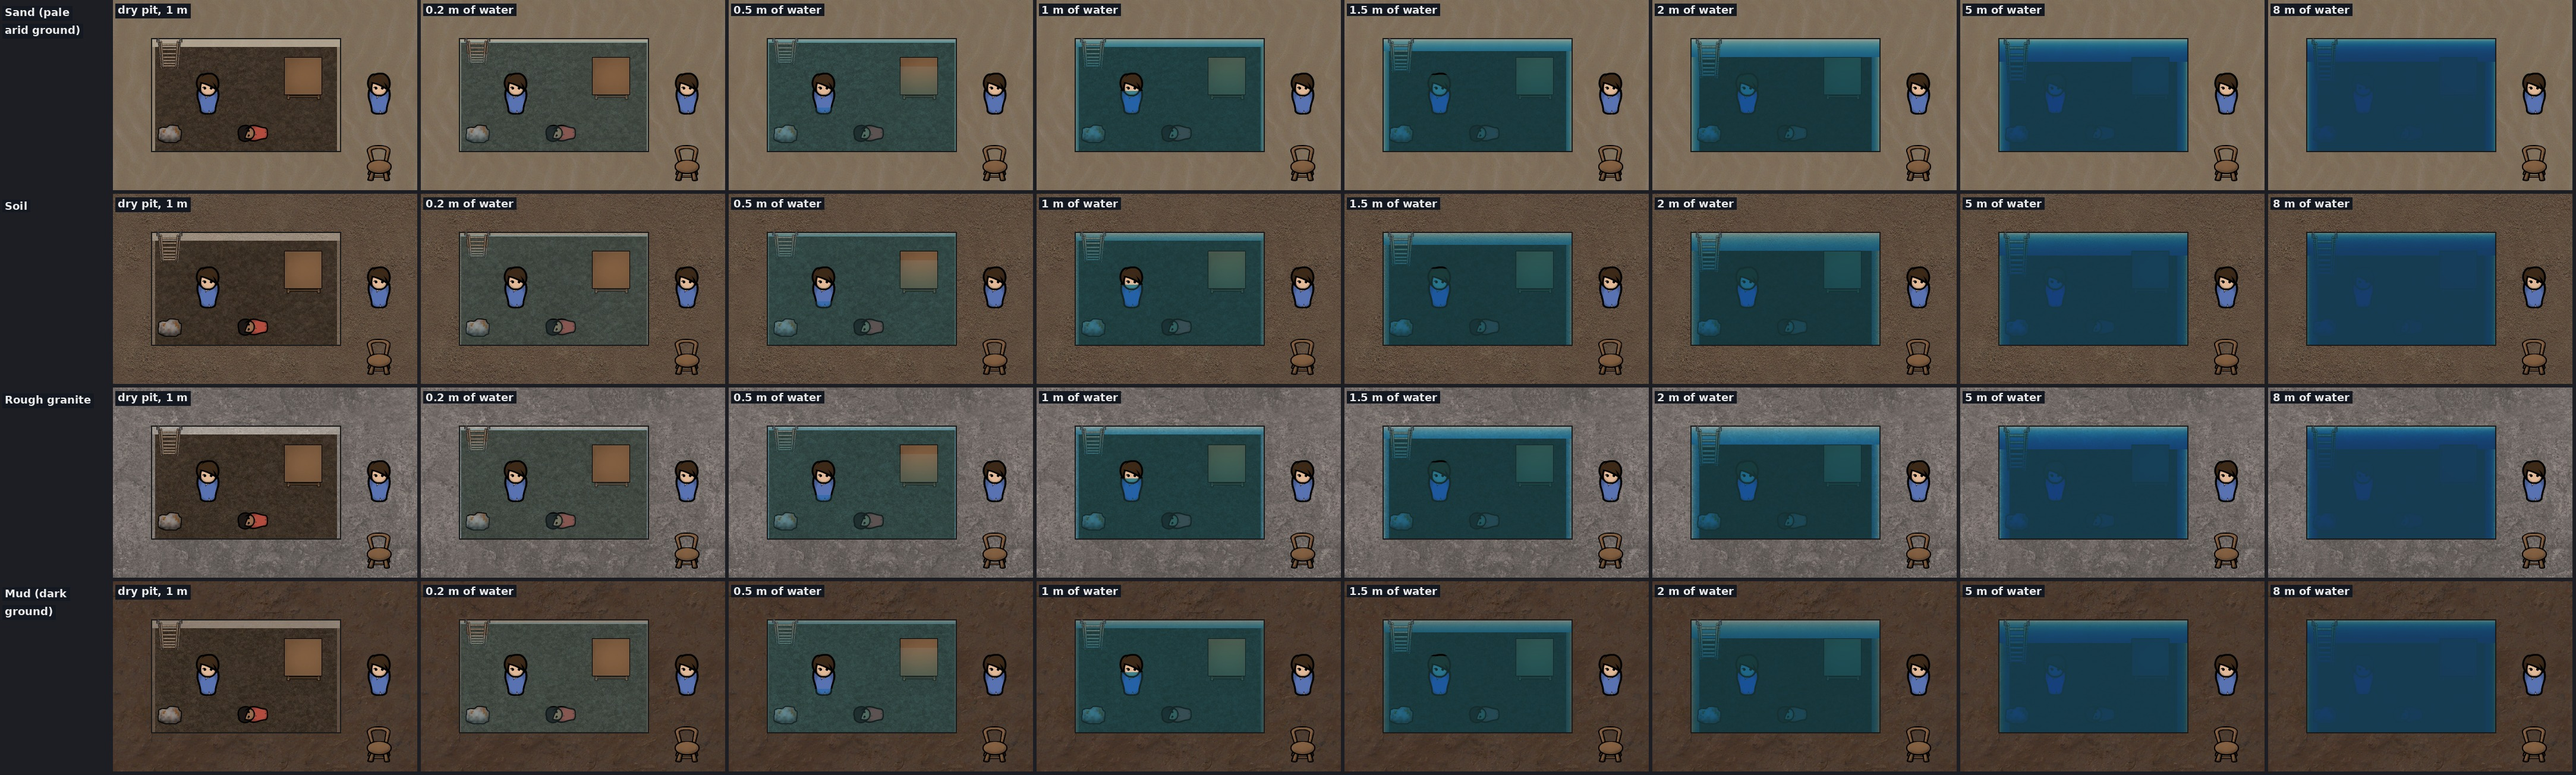
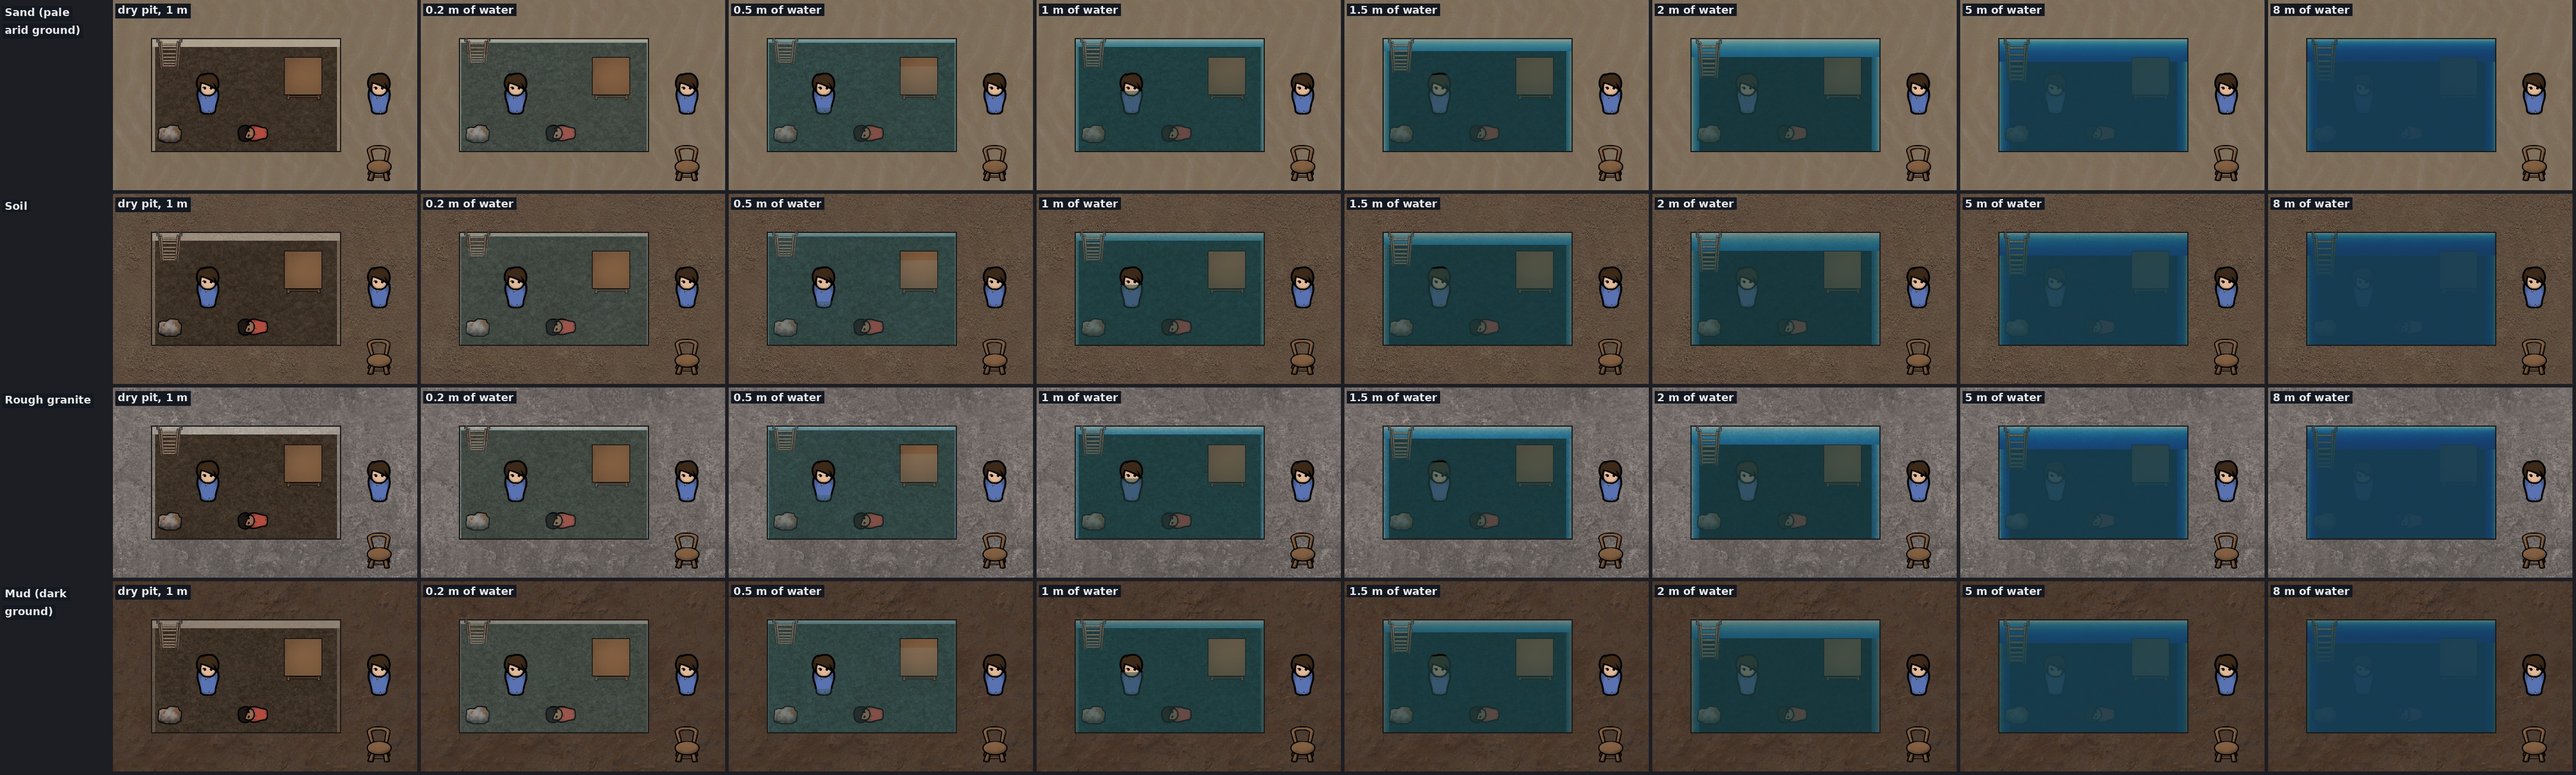
FlowWorks water mockup: things under CLEAR get the cover the game can draw; selftest pins the cover

diff --git a/Transient/flowworks_water_by_depth/flowworks_water_by_depth.html b/Transient/flowworks_water_by_depth/flowworks_water_by_depth.html
@@ -308,7 +308,7 @@ body.grid .row.sel-tint{border-color:currentColor}
   "label": "CLEAR: Clear water that loses red",
   "group": "water law (pick one)",
   "thumb": "img/cand_CLEAR.jpg",
-  "effect": "Like real clear water: what lies under keeps its texture but loses its red, then its green, with depth, and a faint pale sheen marks the surface. Over the dark pit floor it is darkest (a dark teal) near 2 m; deeper, only the water's own blue shows, a little lighter. Hides what lies under it: 23% at 0.2 m, 37% at 0.5 m, 53% at 1 m, 63% at 1.5 m, 69% at 2 m, 88% at 5 m, 94% at 8 m.",
+  "effect": "Like real clear water: what lies under keeps its texture but loses its red, then its green, with depth, and a faint pale sheen marks the surface. Over the dark pit floor it is darkest (a dark teal) near 2 m; deeper, only the water's own blue shows, clearly bluer and brighter. Things standing in it (colonist, body, table) get the nearest cover the game can draw on them: one colour at one strength. Hides what lies under it: 23% at 0.2 m, 37% at 0.5 m, 53% at 1 m, 63% at 1.5 m, 69% at 2 m, 88% at 5 m, 94% at 8 m.",
   "meta": {
    "made by": "water_mockup.py, offline"
   },

diff --git a/src/RimMandrake/FlowWorks/model/water_mockup.py b/src/RimMandrake/FlowWorks/model/water_mockup.py
@@ -148,7 +148,7 @@ CANDIDATES = [
     ("AQUA_SOFT", "Aqua shallows, navy deeps, at FIRM's strength", law_aqua_soft,
      "AQUA's colours with FIRM's strength, so colour and strength can be judged apart."),
     ("CLEAR", "Clear water that loses red", law_clear,
-     "Like real clear water: what lies under keeps its texture but loses its red, then its green, with depth, and a faint pale sheen marks the surface. Over the dark pit floor it is darkest (a dark teal) near 2 m; deeper, only the water's own blue shows, a little lighter."),
+     "Like real clear water: what lies under keeps its texture but loses its red, then its green, with depth, and a faint pale sheen marks the surface. Over the dark pit floor it is darkest (a dark teal) near 2 m; deeper, only the water's own blue shows, clearly bluer and brighter. Things standing in it (colonist, body, table) get the nearest cover the game can draw on them: one colour at one strength."),
 ]
 
 
@@ -272,6 +272,20 @@ def scale(sprite, w_px):
                       ).astype(np.float32) / 255.0
 
 
+def as_cover(law):
+    """What the game can draw over a thing (a pawn, an item, a building): one colour at one alpha (RM_SubmergeDraw's
+    silhouette cover), never a per-colour multiply. The cover that moves black and white as the law does on average:
+    out = C x a + rgb x (1 - a), a = 1 - mean(law(white) - law(black)), C = law(black) / a. Equal to the law for a plain
+    sheet; for CLEAR, the buildable stand-in."""
+    def f(rgb, m):
+        n = m.shape[0]
+        lo = law(np.zeros((n, 3), np.float32), m)
+        hi = law(np.ones((n, 3), np.float32), m)
+        a = np.clip(1.0 - (hi - lo).mean(-1, keepdims=True), 1e-6, 1.0)
+        return lo + rgb * (1.0 - a)
+    return f
+
+
 def drown_sprite(sprite, law, foot_m_over, height_m, quad=None, uniform=False):
     """Cut a thing's picture the way the game does (RM_UnderLiquid.Share, from its foot): its drawn quad's rows
     quad = (top, bottom), transparent margin included, span height_m; rows above the quad (a pawn's head) are higher
@@ -343,7 +357,7 @@ def tile(ground_key, sprites, grounds, law, water_m, seed=1):
         if sprite is sprites.pawn:
             quad = (int(BODY_QUAD[0] * k), int(BODY_QUAD[1] * k))
         if level > 0:
-            s = drown_sprite(s, law, level, height_m, quad=quad, uniform=uniform)
+            s = drown_sprite(s, as_cover(law), level, height_m, quad=quad, uniform=uniform)
         qt, qb = quad if quad else (0, s.shape[0])
         x = x0 + int((cx + 0.5) * PX - s.shape[1] / 2)
         y = z0 + int((cz + 0.5) * PX - (qt + qb) / 2)
@@ -356,7 +370,7 @@ def tile(ground_key, sprites, grounds, law, water_m, seed=1):
     lad_h = hn + PX // 3 + PX // 4
     lad = np.asarray(Image.fromarray((lad * 255).astype(np.uint8), "RGBA").resize((int(PX * 0.7), lad_h), Image.LANCZOS)
                      ).astype(np.float32) / 255.0
-    lad = drown_sprite(lad, law, level, pit_m) if level > 0 else lad
+    lad = drown_sprite(lad, as_cover(law), level, pit_m) if level > 0 else lad
     over(rgba, lad, x0 + int(PX * 0.15), z0)
     put(sprites.table, 3.5, 0.5, 2.0, TABLE_M)                  # a 2x2 table on cells 3-4, rows 0-1
     put(sprites.steel, 0.0, 2.0, 0.75, ITEM_M)

diff --git a/src/RimMandrake/FlowWorks/selftest_flowworks_water_mockup.py b/src/RimMandrake/FlowWorks/selftest_flowworks_water_mockup.py
@@ -66,6 +66,17 @@ def main():
     if same or mono_bad or dry_bad:
         fails.append(f"candidates: identical {same}, clearer deeper {mono_bad}, wet when dry {dry_bad}")
 
+    # 4. a thing's cover equals the law for every plain-sheet law (the game draws a thing's cover as one colour at one
+    #    alpha; only CLEAR needs the stand-in)
+    rng = np.random.default_rng(7)
+    rgb, m = rng.random((200, 3)).astype(np.float32), (rng.random(200) * 8).astype(np.float32)
+    off = {k: float(np.abs(wm.as_cover(fn)(rgb, m) - fn(rgb, m)).max()) for k, _n, fn, _d in wm.CANDIDATES}
+    bad = [k for k, v in off.items() if k != "CLEAR" and v > 1e-5]
+    print(f"4 thing cover = law for plain sheets: worst {max(v for k, v in off.items() if k != 'CLEAR'):.2e} limit 1e-5 "
+          f"cases {200 * (len(off) - 1)}; CLEAR stand-in differs by {off['CLEAR']:.3f}")
+    if bad:
+        fails.append(f"thing cover differs from the law for {bad}")
+
     # can it fail: two planted faults must each turn check 1 red
     body = wm.BODY_SHIPPED
 
